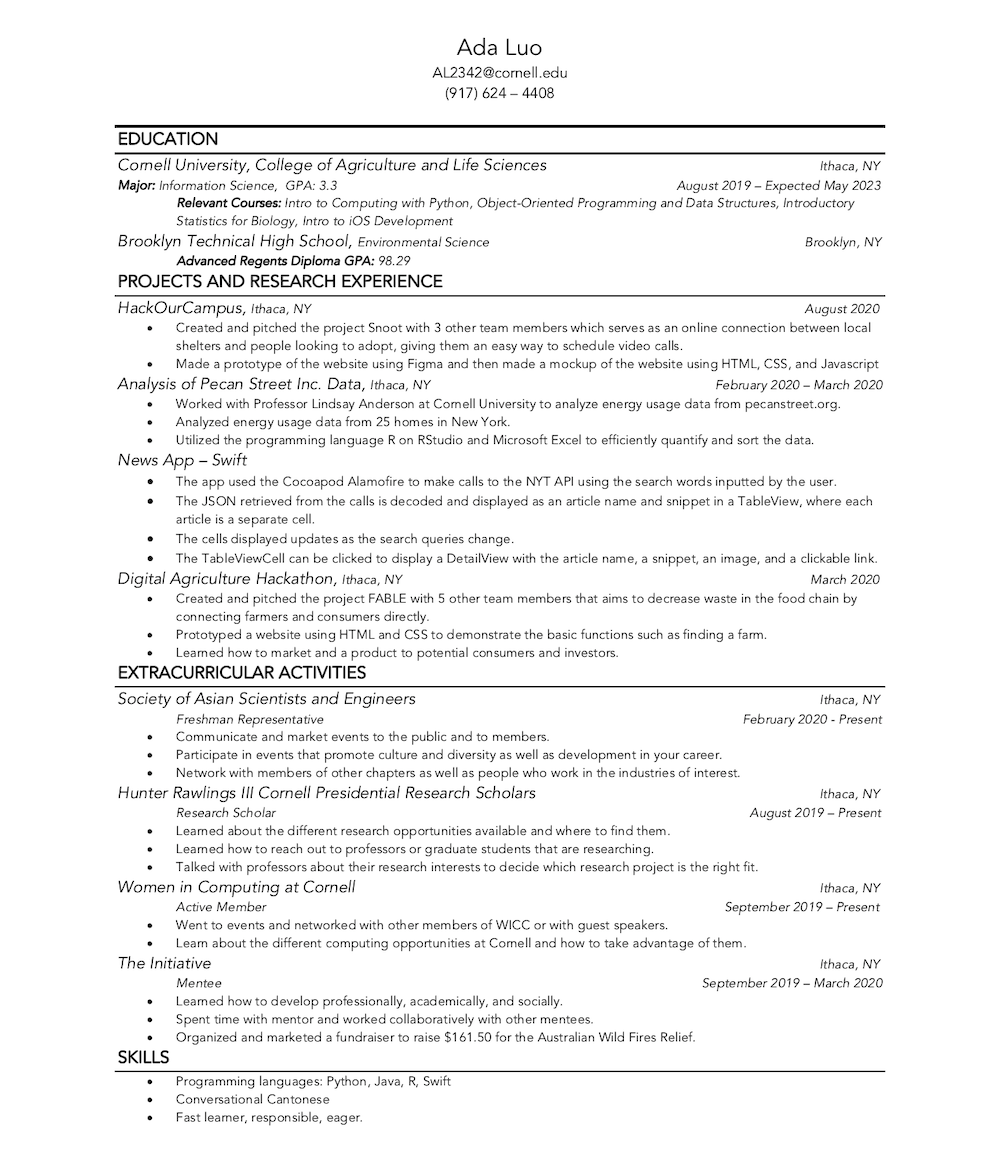
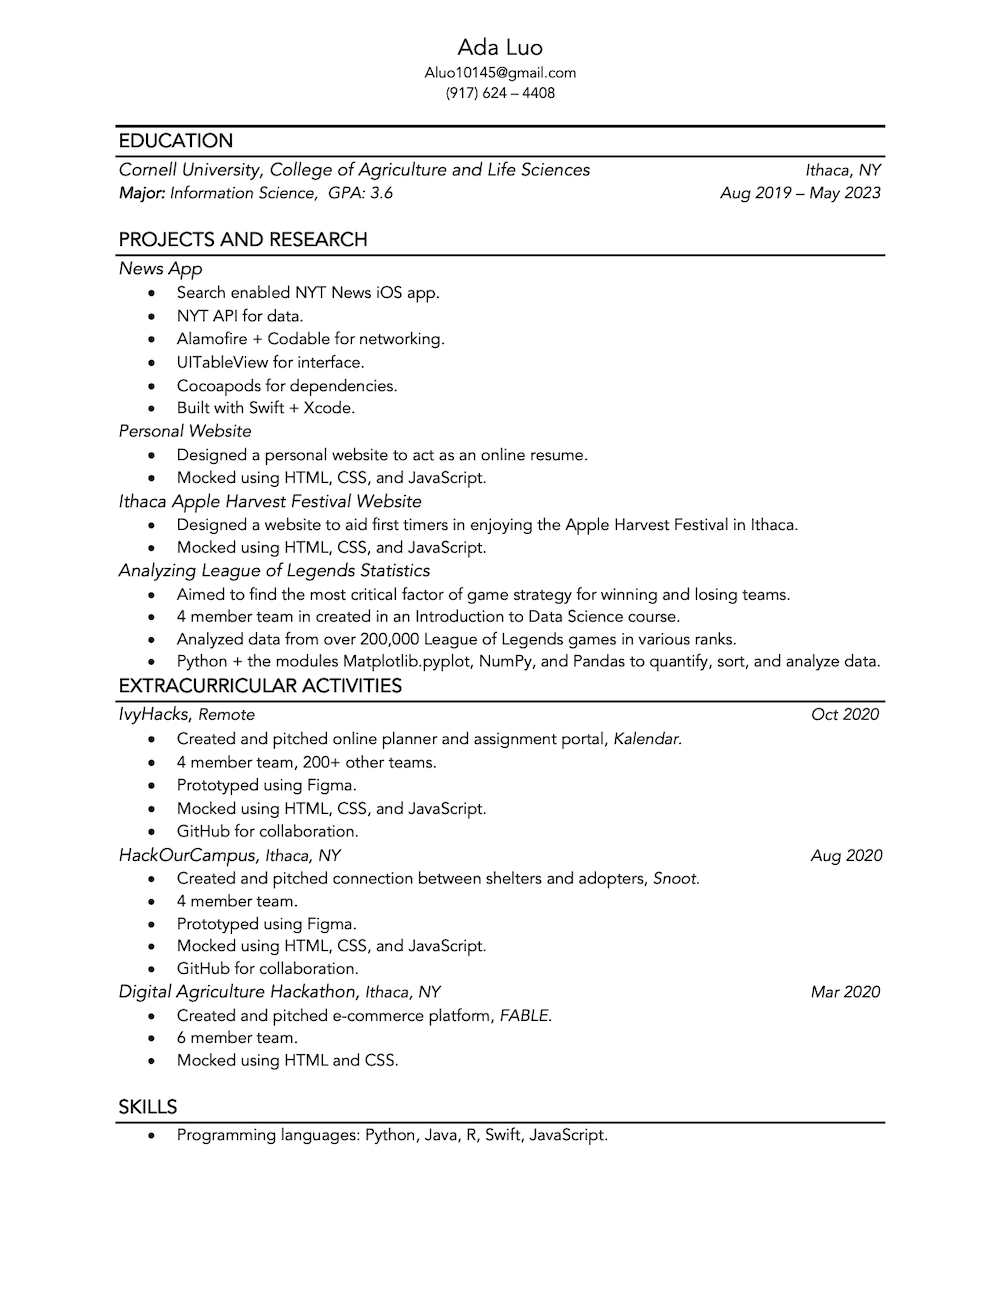
updates

diff --git a/orgs.html b/orgs.html
@@ -1,73 +1,88 @@
 <!DOCTYPE html>
-<html lang ='en'>
+<html lang='en'>
+
 <head>
     <meta charset="utf-8" />
     <meta name="viewport" content="width=device-width, initial scale=1" />
-    <link rel="stylesheet" type="text/css" href="styles/theme1.css" media="all"/>
+    <link rel="stylesheet" type="text/css" href="styles/theme1.css" media="all" />
     <!-- <link rel="stylesheet" type="text/css" href="styles/theme2.css" media="all"/> -->
     <title> My Affiliations </title>
 </head>
 
 <body>
-    <nav>
-        <a class = "navname" href="index.html">Ada Luo</a>
-        <div class="rightnav">
-            <a href="index.html">Home</a>
-            <a href="projects.html">Projects</a>
-            <a href="links.html">Resume</a>
-            <div class = "active">
-                <a href="orgs.html">My Affiliations</a>
-            </div>
-        </div>
-    </nav>
+    <header>
+        <nav>
+            <ul>
+                <li class="navname"><a href="index.php">Ada</a></li>
+            </ul>
+            <ul class="rightnav">
+                <li class=""><a href="index.html">Home</a></li>
+                <li class=""><a href="projects.html">Projects</a></li>
+                <li class=""><a href="resume.html">Resume</a></li>
+                <li class="active"><a href="orgs.html">Affiliations</a></li>
+            </ul>
+        </nav>
+    </header>
 
     <h1>Here are all the Clubs and Organizations I am part of!</h1>
     <div class="club">
         <h2>Hunter R. Rawlings III Cornell Presidential Research Scholars</h2>
-        <a href="https://commitment.cornell.edu/rawlings-research-scholars" target = "_blank">Website ⇱</a>
+        <a href="https://commitment.cornell.edu/rawlings-research-scholars" target="_blank">Website ⇱</a>
         <div class="desc">
             <!-- Source: https://scontent-ort2-2.xx.fbcdn.net/v/t31.0-8/266902_255958501088106_5187878_o.jpg?_nc_cat=101&_nc_sid=09cbfe&_nc_ohc=sXTdFYTQTdcAX9_PQ2n&_nc_ht=scontent-ort2-2.xx&oh=101d619c801c5cff6cd450652054303d&oe=5FAB42F4 -->
-            <img src="images/rawlings.jpg" alt="RCPRS Logo" width = 200 height = 200>
+            <img src="images/rawlings.jpg" alt="RCPRS Logo" width=200 height=200>
             <ul>
-                <li> Rawlings Scholars are Undergraduate students who were selected because they have shown interest in research in high school or during their first two years at Cornell.</li>
-                <li>RCPRS supports their scholars by providing a $8000 support account ($5000 if admitted as juniors) to help fund expenses while pursuing their research</li>
-                <li>This money can be used for pay if research is done for wage or to help fund living and travel expenses if needed.</li>
-                <li>In addition to the expectation of research every semester (excluding first semester of freshman year), scholars are expected to complete 1 summer of full-time research.</li>
-                <li>Scholars choose the faculty mentor they want to work under join projects they have a passion to pursue. </li>
+                <li> Rawlings Scholars are Undergraduate students who were selected because they have shown interest in
+                    research in high school or during their first two years at Cornell.</li>
+                <li>RCPRS supports their scholars by providing a $8000 support account ($5000 if admitted as juniors) to
+                    help fund expenses while pursuing their research</li>
+                <li>This money can be used for pay if research is done for wage or to help fund living and travel
+                    expenses if needed.</li>
+                <li>In addition to the expectation of research every semester (excluding first semester of freshman
+                    year), scholars are expected to complete 1 summer of full-time research.</li>
+                <li>Scholars choose the faculty mentor they want to work under join projects they have a passion to
+                    pursue. </li>
             </ul>
         </div>
-        Source: <cite><a href="https://scontent-ort2-2.xx.fbcdn.net/v/t31.0-8/266902_255958501088106_5187878_o.jpg?_nc_cat=101&_nc_sid=09cbfe&_nc_ohc=sXTdFYTQTdcAX9_PQ2n&_nc_ht=scontent-ort2-2.xx&oh=101d619c801c5cff6cd450652054303d&oe=5FAB42F4">RCPRS FB Page</a></cite>
+        Source: <cite><a
+                href="https://scontent-ort2-2.xx.fbcdn.net/v/t31.0-8/266902_255958501088106_5187878_o.jpg?_nc_cat=101&_nc_sid=09cbfe&_nc_ohc=sXTdFYTQTdcAX9_PQ2n&_nc_ht=scontent-ort2-2.xx&oh=101d619c801c5cff6cd450652054303d&oe=5FAB42F4">RCPRS
+                FB Page</a></cite>
     </div>
     <div class="club">
         <h2>Society of Asian Scientists and Engineers</h2>
-        <a href="https://www.saseconnect.org/" target = "_blank">Main Website ⇱</a>
-        <a href="https://cornellu.wixsite.com/sase" target = "_blank"> Cornell Website ⇱</a>
+        <a href="https://www.saseconnect.org/" target="_blank">Main Website ⇱</a>
+        <a href="https://cornellu.wixsite.com/sase" target="_blank"> Cornell Website ⇱</a>
         <div class="desc">
             <!-- Source: https://www.saseconnect.org/about-sase/brand/download-brand-assets -->
-            <img src="images/sase.png" alt="SASE Logo" width = 200 height = 192>
+            <img src="images/sase.png" alt="SASE Logo" width=200 height=192>
             <ul>
-                <li>SASE is a nation-wide organization to help Asian scientists and engineers reach their full potential. </li>
+                <li>SASE is a nation-wide organization to help Asian scientists and engineers reach their full
+                    potential. </li>
                 <li>It aids in professional development, education and employment for its members.</li>
                 <li>At Cornell, SASE hosts events too boost member engagement on campus.</li>
-                <li>There are also panels where professionals in different industries come and talk to the members and provide insight and advice for working in the global business world.</li>
-                <li>Every year, a few members are selected to go attend the SASE Nation Conference with members from schools all around the country attend.</li>
+                <li>There are also panels where professionals in different industries come and talk to the members and
+                    provide insight and advice for working in the global business world.</li>
+                <li>Every year, a few members are selected to go attend the SASE Nation Conference with members from
+                    schools all around the country attend.</li>
             </ul>
         </div>
         Source: <cite><a href="https://www.saseconnect.org/about-sase/brand/download-brand-assets">SASE</a></cite>
     </div>
     <div class="club">
         <h2>Phi Sigma Pi National Honor Fraternity Beta Nu Chapter</h2>
-        <a href="https://phisigmapi.org/" target = "_blank">Main Website ⇱</a>
-        <a href="https://www.pspbetanu.com/" target = "_blank"> Cornell Website ⇱</a>
+        <a href="https://phisigmapi.org/" target="_blank">Main Website ⇱</a>
+        <a href="https://www.pspbetanu.com/" target="_blank"> Cornell Website ⇱</a>
         <div class="desc">
             <!-- Source: https://phisigmapi.org/resource/shield-color -->
-            <img src="images/psp.png" alt="PSP Logo" width = 200 height = 292>
+            <img src="images/psp.png" alt="PSP Logo" width=200 height=292>
             <ul>
                 <li>Phi Sigma Pi is built on a tripod of ideals, Scholarship, Leadership, and Fellowship</li>
                 <li>As a Brother, you have to maintain a 3.0 or higher GPA and have good academic standing</li>
-                <li>PSP helps students gain leadership skills and teaches them how to apply and use them in their communities. PSP Leadership also emphasizes philanthropy </li>
-                <li>PSP promotes Fellowship by fostering a sense of teamwork that allows for successful planning of events and activities. The friendly culture allows for meaningful life-long relationships to be built between the Members.</li>
-                <li>As an Initiate, I attend weekly initiate meetings and prepare to be inducted as a Brother.</li>
+                <li>PSP helps students gain leadership skills and teaches them how to apply and use them in their
+                    communities. PSP Leadership also emphasizes philanthropy </li>
+                <li>PSP promotes Fellowship by fostering a sense of teamwork that allows for successful planning of
+                    events and activities. The friendly culture allows for meaningful life-long relationships to be
+                    built between the Members.</li>
             </ul>
         </div>
         Source: <cite><a href="https://phisigmapi.org/resource/shield-color">Phi Sigma Pi</a></cite>

diff --git a/projects.html b/projects.html
@@ -1,53 +1,60 @@
 <!DOCTYPE html>
-<html lang ='en'>
+<html lang='en'>
+
 <head>
     <meta charset="utf-8" />
     <meta name="viewport" content="width=device-width, initial scale=1" />
-    <link rel="stylesheet" type="text/css" href="styles/theme1.css" media="all"/>
+    <link rel="stylesheet" type="text/css" href="styles/theme1.css" media="all" />
     <!-- <link rel="stylesheet" type="text/css" href="styles/theme2.css" media="all"/> -->
     <title> My Projects </title>
 </head>
 
 <body>
-    <nav>
-        <a class = "navname" href="index.html">Ada Luo</a>
-        <div class="rightnav">
-            <a href="index.html">Home</a>
-            <div class = "active">
-                <a href="projects.html">Projects</a>
-            </div>
-            <a href="links.html">Resume</a>
-            <a href="orgs.html">My Affiliations</a>
-        </div>
-    </nav>
+    <header>
+        <nav>
+            <ul>
+                <li class="navname"><a href="index.php">Ada</a></li>
+            </ul>
+            <ul class="rightnav">
+                <li class=""><a href="index.html">Home</a></li>
+                <li class="active"><a href="projects.html">Projects</a></li>
+                <li class=""><a href="resume.html">Resume</a></li>
+                <li class=""><a href="orgs.html">Affiliations</a></li>
+            </ul>
+        </nav>
+    </header>
     <h1> These are the Projects I Worked On! </h1>
     <p>Below are some projects I've completed in class and for Hackathons! Check it out!</p>
-
+    <p>Here is a link to my <a href="https://github.com/aluo1107" target="_blank">Github! ⇱</a></p>
     <section>
         <h2> Hackathons </h2>
         <div class="row1">
             <div class="aproj">
-                <div class = "project">
+                <div class="project">
                     <!-- Source: (original work) Ada Luo -->
-                    <a href="https://uxfol.io/project/048bd134/Snoot" target ="_blank"><img src="images/snootlogo.png" alt="SnootLogo" width = 100 height =94></a>
+                    <a href="https://uxfol.io/project/048bd134/Snoot" target="_blank"><img src="images/snootlogo.png"
+                            alt="SnootLogo" width=100 height=94></a>
                     <h3>Snoot Case Study</h3>
                 </div>
                 <div class="captions">
                     <p> <em> Hack Our Campus Hackathon</em>
-                    August 28th-30th, 2020 </p>
-                    <a href="https://uxfol.io/project/048bd134/Snoot" target = "_blank">Click here to see the case study!⇱</a>
+                        August 28th-30th, 2020 </p>
+                    <a href="https://uxfol.io/project/048bd134/Snoot" target="_blank">Click here to see the case
+                        study!⇱</a>
                 </div>
             </div>
             <div class="aproj">
-                <div class = "project">
+                <div class="project">
                     <!-- Source: (original work) Ada Luo -->
                     <img src="images/fablelogo.png" alt="Fable Logo" width=100 height=78>
                     <p>Fable</p>
                 </div>
                 <div class="captions">
                     <ul>
-                        <li>Created and pitched the project <em>FABLE</em> with 5 other team members for the <em>Digital Agriculture Hackathon</em> in Spring 2020.</li>
-                        <li><em>FABLE</em> aims to decrease waste in the food chain by connected farmers and consumers directly on an e-commerce style platform.</li>
+                        <li>Created and pitched the project <em>FABLE</em> with 5 other team members for the <em>Digital
+                                Agriculture Hackathon</em> in Spring 2020.</li>
+                        <li><em>FABLE</em> aims to decrease waste in the food chain by connected farmers and consumers
+                            directly on an e-commerce style platform.</li>
                         <li>Prototyped a mock-website using HTML and CSS to demonstrate the basic functions.</li>
                     </ul>
                 </div>
@@ -57,24 +64,27 @@
 
     <section>
         <h2> Class Projects </h2>
-        <div class = "aproj">
+        <div class="aproj">
             <div class="project">
                 <!-- Source: https://developer.nytimes.com/logos/logo?v=1600101622804 -->
                 <img src="images/nytapi" alt="NYT Developer Logo">
-                Source: <cite><a href= "https://developer.nytimes.com/logos/logo?v=1600101622804"> NYT Developer Network</a></cite>
+                Source: <cite><a href="https://developer.nytimes.com/logos/logo?v=1600101622804"> NYT Developer
+                        Network</a></cite>
                 <h3> <em> News App </em> </h3>
             </div>
             <div class="captions">
                 <ul>
                     <li> Made as the final project for an Intro to iOS Development course.</li>
-                    <li> The app used the Cocoapod Alamofire to make calls to the NYT API using the search words inputted by the user.</li>
-                    <li>The JSON retrieved from the calls is decoded and displayed as an article name and snippet in a TableView, with each article in a separate TableViewCell.</li>
-                    <li> The TableViewCell can be clicked to display a DetailView with the article name, a snippet of the article, an image, and a clickable link.</li>
+                    <li> The app used the Cocoapod Alamofire to make calls to the NYT API using the search words
+                        inputted by the user.</li>
+                    <li>The JSON retrieved from the calls is decoded and displayed as an article name and snippet in a
+                        TableView, with each article in a separate TableViewCell.</li>
+                    <li> The TableViewCell can be clicked to display a DetailView with the article name, a snippet of
+                        the article, an image, and a clickable link.</li>
                 </ul>
             </div>
         </div>
     </section>
-    <div class="designport">
-        <h2> Design Portfolio </h2>
-        <p> Here is a link to my <a href="https://uxfol.io/al2342" target="_blank">Design Portfolio ⇱</a> if you want to see my list of case studies on the website. </p>
-    </div>
+</body>
+
+</html>

diff --git a/index.html b/index.html
@@ -1,45 +1,82 @@
 <!DOCTYPE html>
-<html lang ='en'>
+<html lang='en'>
+
 <head>
     <meta charset="utf-8" />
     <meta name="viewport" content="width=device-width, initial scale=1" />
-    <link rel="stylesheet" type="text/css" href="styles/theme1.css" media="all"/>
+    <link rel="stylesheet" type="text/css" href="styles/theme1.css" media="all" />
     <!-- <link rel="stylesheet" type="text/css" href="styles/theme2.css" media="all"/> -->
     <title> Ada Luo </title>
 </head>
 
 <body>
-    <nav>
-        <a class = "navname" href="index.html">Ada Luo</a>
-        <div class="rightnav">
-            <div class = "active">
-                <a href="index.html">Home</a>
-            </div>
-            <a href="projects.html">Projects</a>
-            <a href="links.html">Resume</a>
-            <a href="orgs.html">My Affiliations</a>
+    <header>
+        <nav>
+            <ul>
+                <li class="navname"><a href="index.php">Ada</a></li>
+            </ul>
+            <ul class="rightnav">
+                <li class="active"><a href="index.html">Home</a></li>
+                <li class=""><a href="projects.html">Projects</a></li>
+                <li class=""><a href="resume.html">Resume</a></li>
+                <li class=""><a href="orgs.html">Affiliations</a></li>
+            </ul>
+        </nav>
+    </header>
+
+    <h1> Hello! Welcome to my online portfolio and resume!</h1>
+
+    <div class="about">
+        <!-- Source: (original work) Ada Luo -->
+        <h2> Who Am I? </h2>
+        <div class="whoami">
+            <div class="selfimg"> <img src="public/images/self.jpg" alt="Ada Luo" width=150 height=150> </div>
+            <p> My name is Ada Luo and I am a sophomore intending to study Information Science in the College of
+                Agriculture and Life Sciences at Cornell University. I am concentrating in user experience design and
+                interactive technologies. </p>
         </div>
-    </nav>
-    <div class="header">
-        <h1> Hello! Welcome to my online portfolio and resume!</h1>
-    </div>
 
-<div class = "about">
-    <!-- Source: (original work) Ada Luo -->
-    <h2> Who Am I? </h2>
-    <div class="whoami">
-        <div class = "selfimg"> <img src="images/self.jpg" alt="Ada Luo" width = 150 height = 150> </div>
-        <p> My name is Ada Luo and I am a sophomore intending to study Information Science in the College of Agriculture and Life Sciences at Cornell University. I am concentrating in user experience design and interactive technologies. </p>
-    </div>
+        <h2> My Journey</h2>
+        <p> I came into <em> Cornell University</em> as an Environmental Engineering major, but after taking an
+            introductory course to computer science using the coding language Python, I fell in love with coding and
+            explored more of the computing industry. </p>
 
-    <h2> My Journey</h2>
-    <p> I came into <em> Cornell University</em> as an Environmental Engineering major, but after taking an introductory course to computer science using the coding language Python, I fell in love with coding and explored more of the computing industry. </p>
+        <p> When I was exploring, I found out about Information Science and decided that this was the career path I want
+            to take. I realized I had a passion for designing websites and building applications that other people can
+            use. </p>
 
-    <p> When I was exploring, I found out about Information Science and decided that this was the career path I want to take. I realized I had a passion for designing websites and building applications that other people can use. </p>
+        <h2> My Hobbies</h2>
+        <p> In my free time, I love bowling, spending time with friends, and taking walks.</p>
 
-    <h2> My Hobbies</h2>
-    <p> In my free time, I love bowling, spending time with friends, and taking walks.</p>
-</div>
+        <h2>Contact me!</h2>
+        <section class="contacts">
+            <div class="single">
+                <!-- Source: https://www.iconfinder.com/icons/4202011/mail_gmail_email_logo_social_social_media_icon -->
+                <a href="mailto:al2342@cornell.edu" target="_blank"> <img src="public/images/gmail.svg" alt="Gmail Logo"
+                        width=120 height=120> </a>
+                <p> <a href="mailto:al2342@cornell.edu" target="_blank">Email Me! ⇱</a></p>
+                Source: <cite> <a
+                        href="https://www.iconfinder.com/icons/4202011mail_gmail_email_logo_social_social_media_icon">Icon
+                        Finder</a></cite>
+            </div>
+
+            <div class="single">
+                <!-- Source: https://www.flaticon.com/free-icon/linkedin_174857 -->
+                <a href="https://www.linkedin.com/in/ada-luo-6bb712199/" target="_blank"><img
+                        src="public/images/linkedinlogo.png" alt="LinkedIn Logo" width=120 height=120></a>
+                <p> <a href="https://www.linkedin.com/in/ada-luo-6bb712199/">Connect with Me! ⇱</a></p>
+                Source: <cite><a href="https://www.flaticon.com/free-icon/linkedin_174857">FlatIcon</a></cite>
+            </div>
+
+            <div class="single">
+                <!-- Source: https://appadvice.com/app/clubhouse-drop-in-audio-chat/1503133294 -->
+                <img src="public/images/clubhouselogo.jpg" alt="Clubhouse logo">
+                <p>Clubhouse ID: @adaluo</p>
+                Source: <cite><a href="https://appadvice.com/app/clubhouse-drop-in-audio-chat/1503133294">App
+                        Advice</a></cite>
+            </div>
+        </section>
 
 </body>
+
 </html>

diff --git a/resume.html b/resume.html
@@ -1,0 +1,37 @@
+<!DOCTYPE html>
+<html lang='en'>
+
+<head>
+    <meta charset="utf-8" />
+    <meta name="viewport" content="width=device-width, initial scale=1" />
+    <link rel="stylesheet" type="text/css" href="styles/theme1.css" media="all" />
+    <!-- <link rel="stylesheet" type="text/css" href="styles/theme2.css" media="all"/> -->
+    <title> My Resume </title>
+</head>
+
+<body>
+    <header>
+        <nav>
+            <ul>
+                <li class="navname"><a href="index.php">Ada</a></li>
+            </ul>
+            <ul class="rightnav">
+                <li class=""><a href="index.html">Home</a></li>
+                <li class=""><a href="projects.html">Projects</a></li>
+                <li class="active"><a href="resume.html">Resume</a></li>
+                <li class=""><a href="orgs.html">Affiliations</a></li>
+            </ul>
+        </nav>
+    </header>
+    <div class="resume">
+        <div class="resumehead">
+            <h1>Resume</h1>
+            <h3><a href="https://github.com/aluo1107" target="_blank">Github! ⇱</a></h3>
+            <h3> <a href="https://uxfol.io/al2342" target="_blank">My UX Portfolio ⇱</a></h3>
+        </div>
+        <div class="resumeimg">
+            <!-- Source: (original work) Ada Luo -->
+            <img src="public/images/resume.png" alt="My Resume" width=1000 height=1294>
+        </div>
+    </div>
+</body>
